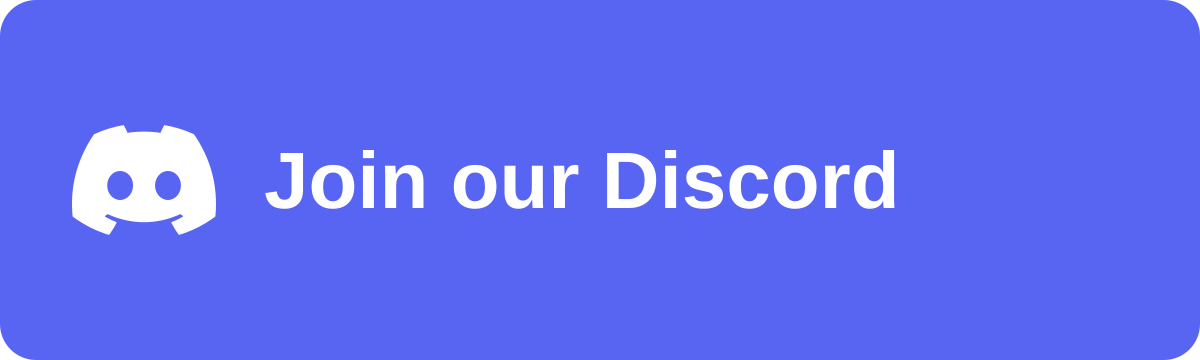
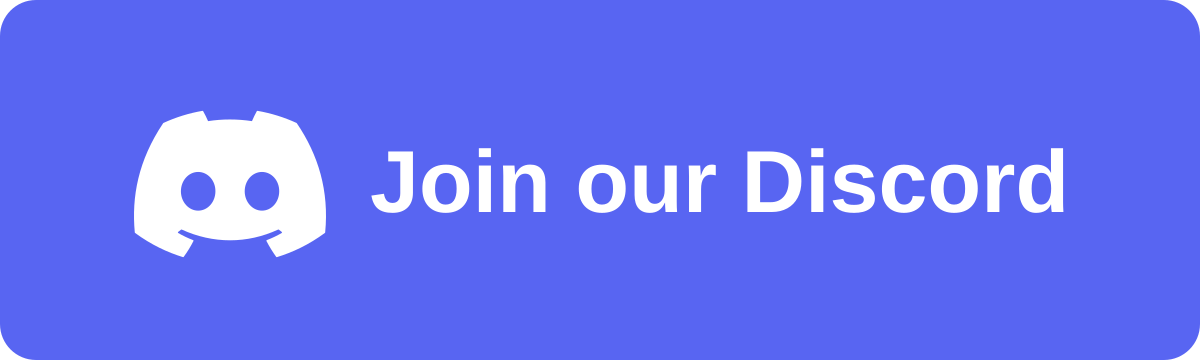
Put the Discord badge in the download row and rebalance its artwork

Changed region(s): [[0.0617, 0.3056, 0.8942, 0.7028], [0.6783, 0.3972, 0.7092, 0.4278], [0.4008, 0.3972, 0.4317, 0.4278]]

diff --git a/README.md b/README.md
@@ -12,7 +12,6 @@ No PC needed. No root needed.
   <a href="https://github.com/Sanuu7/AndroidHarness/releases/latest"><img src=".github/assets/download-from-github.png" alt="Download from GitHub" height="54"></a>
   <a href="https://play.google.com/store/apps/details?id=com.androidharness.app"><img src=".github/assets/google-play.png" alt="Get it on Google Play" height="54"></a>
   <a href="https://buymeacoffee.com/sanuj7"><img src="https://cdn.buymeacoffee.com/buttons/v2/default-yellow.png" alt="Buy me a coffee" height="54"></a>
-  <br>
   <a href="https://discord.gg/NdC5K3XeWF"><img src=".github/assets/join-discord.png" alt="Join our Discord" height="54"></a>
 </p>
 
